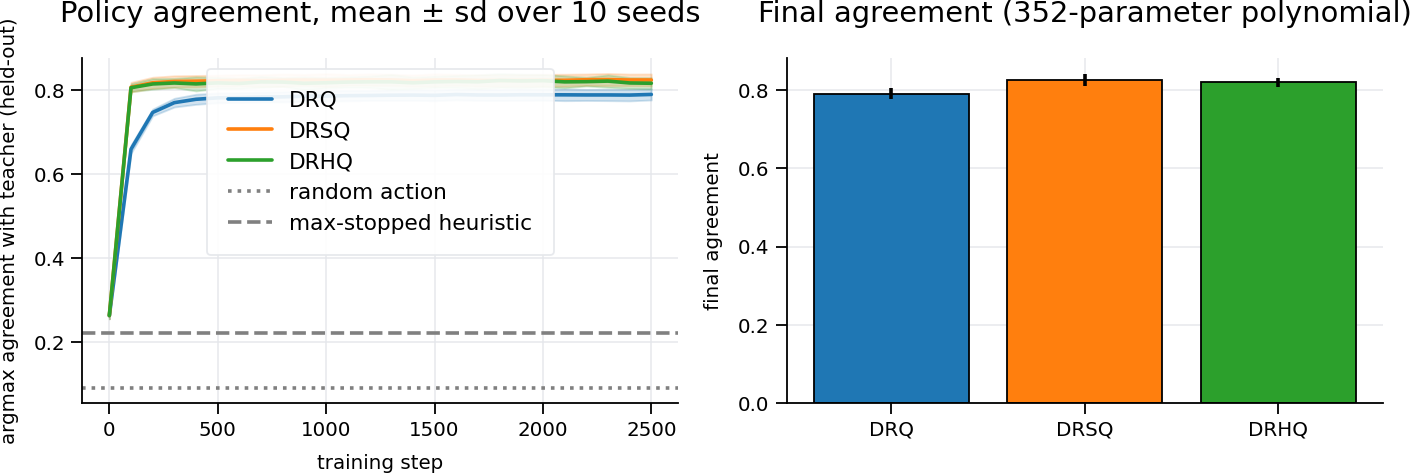
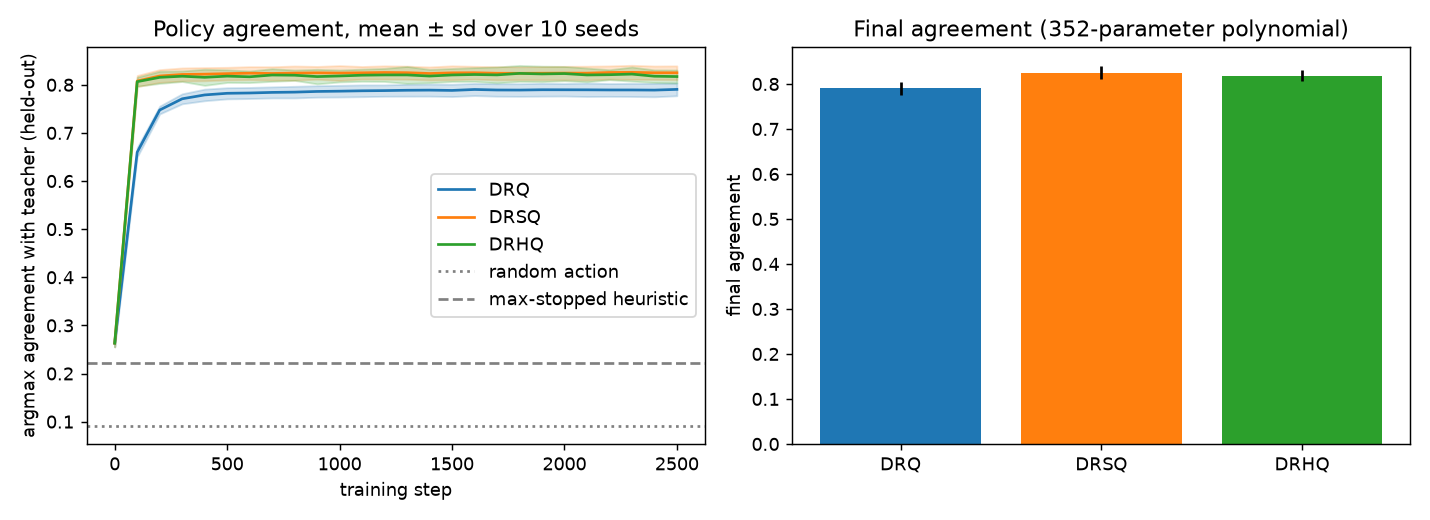
Fix MLPRegressor call and add own run of teacher-student comparison
Fix MLPRegressor call and add own run of teacher-student comparison

Changed region(s): [[0.0, 0.0, 1.0, 1.0], [0.1559, 0.3256, 0.4366, 0.5328], [0.1559, 0.3256, 0.2495, 0.3552]]

diff --git a/src/teacher_student.py b/src/teacher_student.py
@@ -14,6 +14,8 @@ paper's description; we did not read networks.py, so details of the authors' los
 
 G(s)_a = ( sum_{i<12} (w_ai s_ai)^p_ai ) * prod_{j>=12, s_aj>0} (w_aj s_aj)^p_aj      (cf. display() in drxq.py)
 w = exp(a) > 0 ; exponents p clipped to [0.1, 4]; init w=1, p=1 (Alg. 1 line 4).
+
+Usage:  python teacher_student.py [n_seeds]      (default 5; the README numbers use 10, about 8 minutes)
 """
 import json, os, sys, time
 import numpy as np
@@ -43,7 +45,9 @@ def hidden_truth(s):
 
 def fit_teacher(rng, n=30000):
     X = make_states(n, rng); Y = hidden_truth(X) + rng.normal(0, 0.03, (n, A))
-    mlp = MLPRegressor((64, 64), activation="relu", max_iter=60, random_state=int(rng.integers(1e9)), early_stopping=False)
+    # NOTE: hidden_layer_sizes must be passed by keyword. Newer scikit-learn versions put `loss` first in the signature.
+    mlp = MLPRegressor(hidden_layer_sizes=(64, 64), activation="relu", max_iter=60,
+                       random_state=int(rng.integers(1e9)), early_stopping=False)
     mlp.fit(X.reshape(n, -1), Y)
     return mlp
 
@@ -112,8 +116,8 @@ def train(kind, Xtr, Qtr, Xte, Qte, rng, steps=2500, bs=256, lr=0.03, log_every=
 
 if __name__ == "__main__":
     seeds = int(sys.argv[1]) if len(sys.argv) > 1 else 5
-    out_dir = os.path.join(os.path.dirname(os.path.abspath(__file__)), "..", "results") if os.path.isdir(
-        os.path.join(os.path.dirname(os.path.abspath(__file__)), "..", "results")) else "."
+    here = os.path.dirname(os.path.abspath(__file__))
+    out_dir = os.path.join(here, "..", "results") if os.path.isdir(os.path.join(here, "..", "results")) else "."
     res = {k: [] for k in ("DRQ", "DRSQ", "DRHQ")}; curves = {k: [] for k in res}; rand_base, heur_base = [], []
     t0 = time.time()
     for sd in range(seeds):
